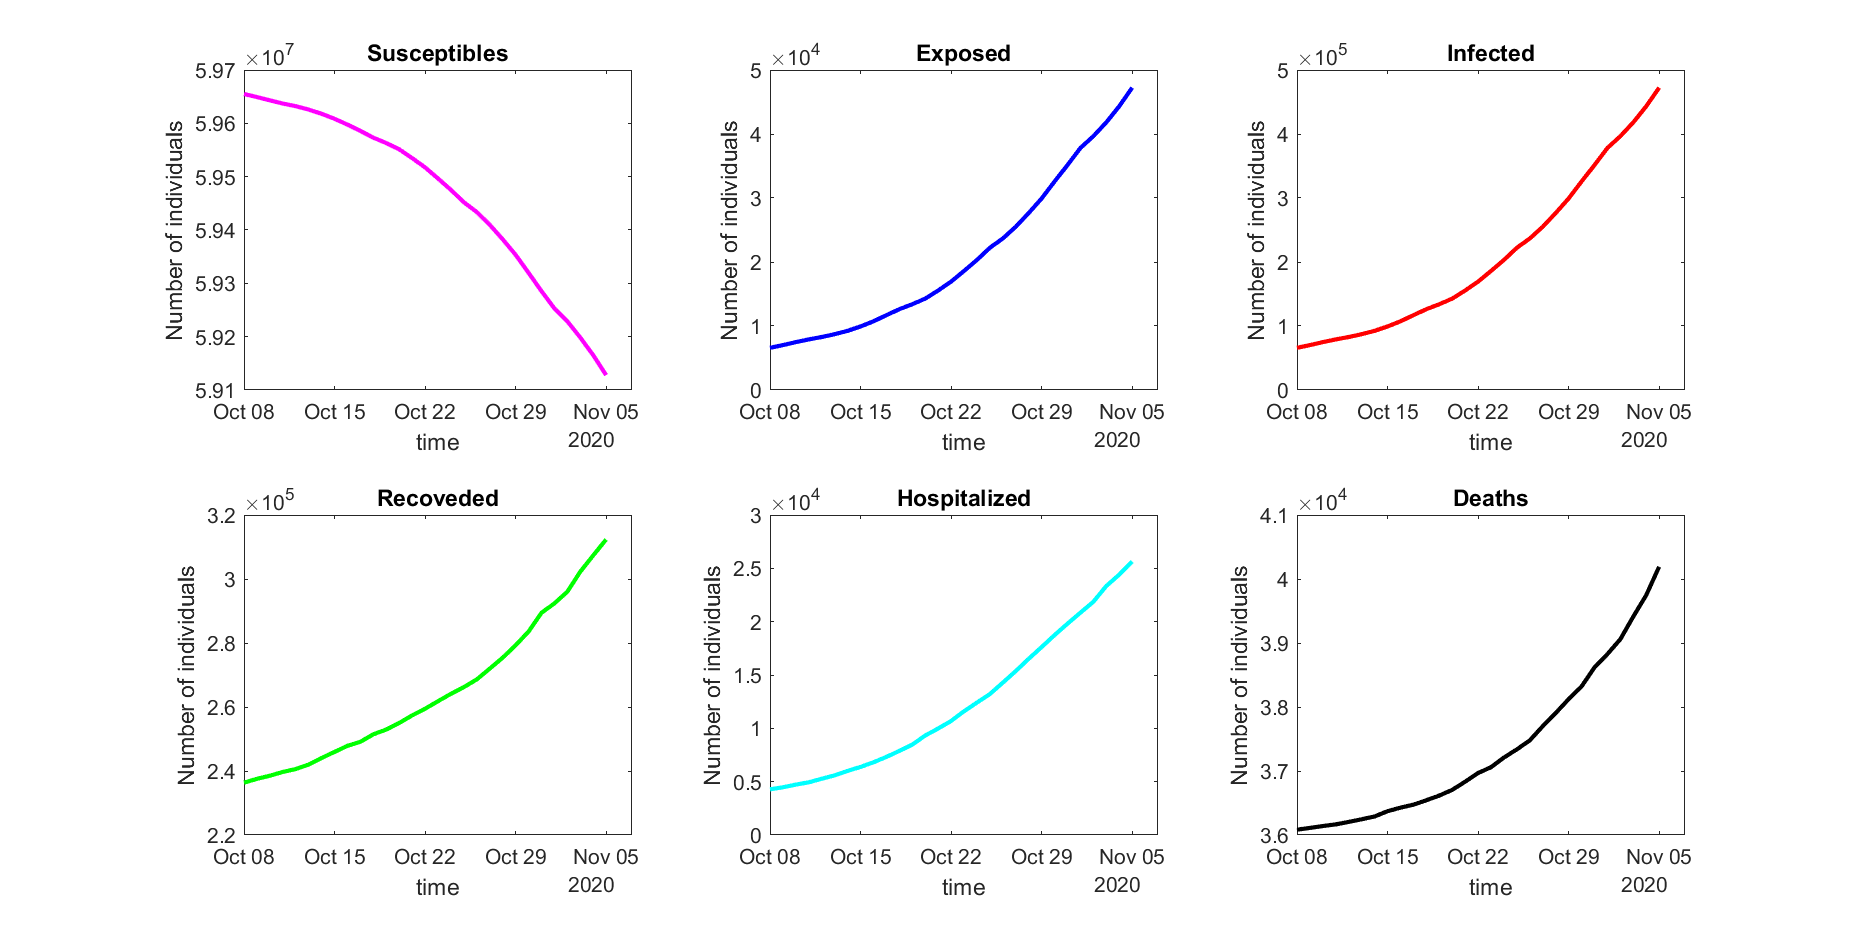
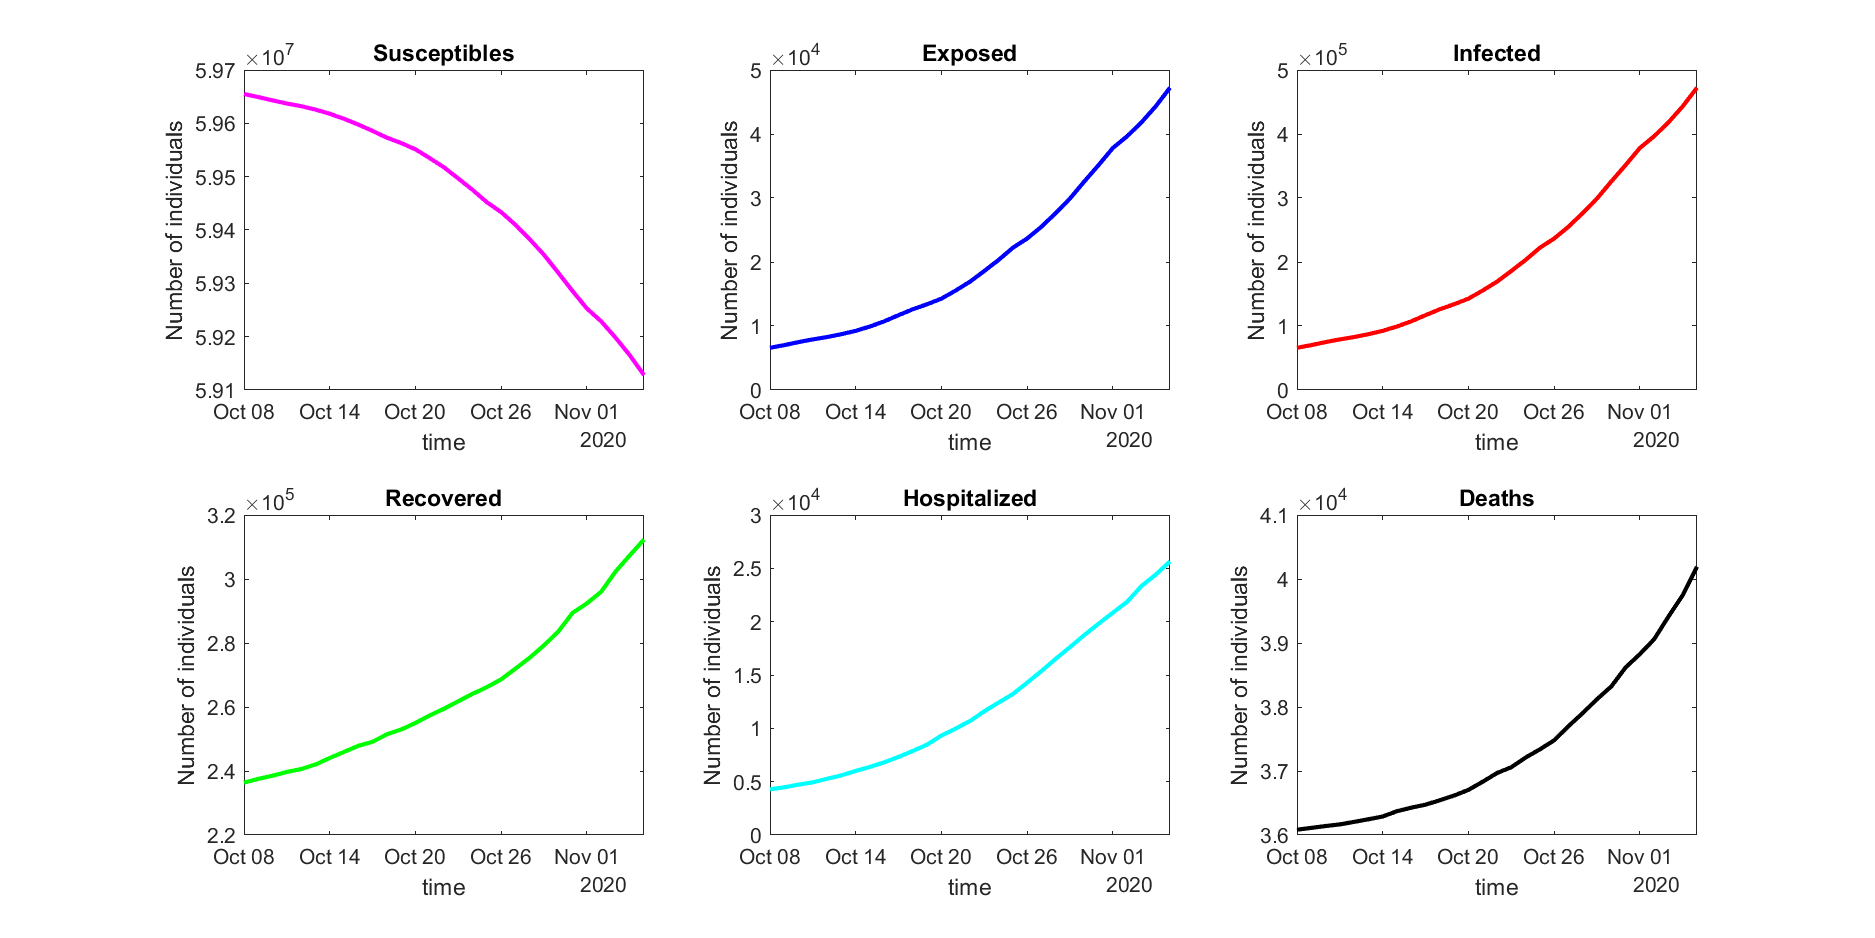
Plot update

diff --git a/models/SEIR/plot_SEIR.m b/models/SEIR/plot_SEIR.m
@@ -1,10 +1,11 @@
-function plot_SEIR(X, X0, N, p, t0, tf, tp)
+function plot_SEIR(X, X0, N, p, dates, t0, tf, tp)
 
 % Input 
 % X       data: S, I, R
 % X0      initial conditions: S0, I0, R0
 % N       number of individuals (Italian population)
 % p       estimated values of the coefficients of the model
+% dates   time vector
 % t0      time at which the fitting starts
 % tf      time at which the fitting ends  
 % tp      vector containing the times for the predictions
@@ -42,21 +43,28 @@ for i = 1:size(tp, 2)
     fprintf("RMSE test E: %f \n", RMSE_E_test);
     fprintf("RMSE test I: %f \n", RMSE_I_test);
     fprintf("RMSE test R: %f \n", RMSE_R_test);
+    
+    x0=100;
+    y0=100;
+    width=1200;
+    height=600;
+    set(gcf,'position',[x0,y0,width,height]);
 
     figure(1)
     subplot(1,3,i);
-    xline(tf,'--m');hold on;
-    plot(t0:tf+tp(i), E(t0:tf+tp(i)),'bo');hold on; 
-    plot(t,N*E_pred,'b', 'LineWidth',2);
-    plot(t0:tf+tp(i), I(t0:tf+tp(i)),'ro');hold on; 
-    plot(t,N*I_pred,'r', 'LineWidth',2);
-    plot(t0:tf+tp(i), R(t0:tf+tp(i)),'go');hold on;
-    plot(t, N*R_pred,'g', 'LineWidth',2);
-    xlabel('Days');ylabel('Number of individuals');
+    xline(dates(tf),'--m');hold on;
+    plot(dates(t0:tf+tp(i)), E(t0:tf+tp(i)),'bo');hold on; 
+    plot(dates(t),N*E_pred,'b', 'LineWidth',2);
+    plot(dates(t0:tf+tp(i)), I(t0:tf+tp(i)),'ro');hold on; 
+    plot(dates(t),N*I_pred,'r', 'LineWidth',2);
+    plot(dates(t0:tf+tp(i)), R(t0:tf+tp(i)),'go');hold on;
+    plot(dates(t), N*R_pred,'g', 'LineWidth',2);
+    xlabel('time');ylabel('Number of individuals');
     legend('Start forecast', 'E (reported)','E (fitted)',...
     'I (reported)','I (fitted)', 'R (reported)', 'R (fitted)',...
     'Location', 'northwest');
     title(sprintf('SEIR: %d days forecasts', tp(i)));
-    set(gca,'FontSize',12)
+    set(gca,'XLim',[dates(t0), dates(tf+tp(i))]);
+    saveas(gcf,'./results/SEIR_fitting.png')
 
 end

diff --git a/models/SIR/plot_SIR.m b/models/SIR/plot_SIR.m
@@ -1,10 +1,11 @@
-function plot_SIR(X, X0, N, p, t0, tf, tp)
+function plot_SIR(X, X0, N, p, dates, t0, tf, tp)
 
 % Input 
 % X       data: S, I, R
 % X0      initial conditions: S0, I0, R0
 % N       number of individuals (Italian population)
 % p       estimated values of the coefficients of the model
+% dates   time vector
 % t0      time at which the fitting starts
 % tf      time at which the fitting ends  
 % tp      vector containing the times for the predictions
@@ -37,18 +38,25 @@ for i = 1:size(tp, 2)
     fprintf("%d days forecasts errors \n", tp(i));
     fprintf("RMSE test I: %f \n", RMSE_I_test);
     fprintf("RMSE test R: %f \n", RMSE_R_test);
+    
+    x0=100;
+    y0=100;
+    width=1200;
+    height=600;
+    set(gcf,'position',[x0,y0,width,height]);
 
     figure(1)
     subplot(1,3,i);
-    xline(tf,'--m');hold on;
-    plot(t0:tf+tp(i), I(t0:tf+tp(i)),'ro');hold on; 
-    plot(t,N*I_pred,'r', 'LineWidth',2);
-    plot(t0:tf+tp(i), R(t0:tf+tp(i)),'go');hold on;
-    plot(t, N*R_pred,'g', 'LineWidth',2);
-    xlabel('Days');ylabel('Number of individuals');
+    xline(dates(tf),'--m');hold on;
+    plot(dates(t0:tf+tp(i)), I(t0:tf+tp(i)),'ro');hold on; 
+    plot(dates(t), N*I_pred,'r', 'LineWidth',2);
+    plot(dates(t0:tf+tp(i)), R(t0:tf+tp(i)),'go');hold on;
+    plot(dates(t), N*R_pred,'g', 'LineWidth',2);
+    xlabel('time');ylabel('Number of individuals');
     legend('Start forecast', 'I (reported)','I (fitted)', ...
         'R (reported)', 'R (fitted)', 'Location', 'northwest');
     title(sprintf('SIR: %d days forecasts', tp(i)));
-    set(gca,'FontSize',12)
+    set(gca,'XLim',[dates(t0), dates(tf+tp(i))]);
+    saveas(gcf,'./results/SIR_fitting.png')
 
 end

diff --git a/main.m b/main.m
@@ -29,9 +29,7 @@ plot_data(data, dates(t0:tf), N, t0, tf, "october");
 % [S, I, R]
 
 S0 = N;
-% paper SEIR
-%beta0 = 1 / S0;
-beta0 = 0.962/S0; %0.962
+beta0 = 0.962/S0; 
 gamma0 = 0.37; 
 
 % adimensional SEIR model for fitting
@@ -60,15 +58,11 @@ beta0 = beta0*N;
 p0_SIR = [beta0, gamma0];
 
 p_SIR = fit_SIR(X_ad_SIR, X0_ad_SIR, p0_SIR,t0,tf);
-
-p_SIR
-
+%p_SIR
 %R_index = p_SIR(1)/ p_SIR(2)
 %% PLOT SIR
 tp = [7,14, 21];
-plot_SIR(X_SIR, X0_ad_SIR, N, p_SIR, t0, tf, tp);
-% RMSE train I: 243733.947542 
-% RMSE train R: 265378.113719
+plot_SIR(X_SIR, X0_ad_SIR, N, p_SIR, dates, t0, tf, tp);
 %% FITTING SEIR MODEL
 % [S, E, I, R]
 
@@ -103,13 +97,11 @@ gamma0 = p_SIR(2);
 p0_SEIR = [beta0, alpha0, gamma0];
 
 p_SEIR = fit_SEIR(X_ad_SEIR, X0_ad_SEIR, p0_SEIR, t0, tf);
-
 %% PLOT SEIR
-plot_SEIR(X_SEIR, X0_ad_SEIR, N, p_SEIR, t0, tf, tp);
+plot_SEIR(X_SEIR, X0_ad_SEIR, N, p_SEIR, dates, t0, tf, tp);
 % RMSE train E: 24373.394744 
 % RMSE train I: 243733.947545 
 % RMSE train R: 265378.113719 
-
 %% FITTING SEIIR MODEL
 
 S = N-E-I-R;
@@ -140,12 +132,9 @@ lambda_e0 = 0.251883;
 p0_SEIIR = [f0, alpha0, gamma0, lambda_a0, lambda_s0, lambda_e0 ];
 
 p_SEIIR = fit_SEIIR(X_ad_SEIIR, X0_ad_SEIIR, p0_SEIIR, t0, tf);
-
-p_SEIIR
-
+%p_SEIIR
 %% PLOT SEIIR
 plot_SEIIR(X_SEIIR, X0_ad_SEIIR, N, p_SEIIR, t0, tf, tp);
-
 %% FITTING SEIIRHD MODEL
 
 S = N-E-I-R;

diff --git a/data/plot_data.m b/data/plot_data.m
@@ -12,28 +12,33 @@ R = cast((data.dimessi_guariti), 'double');
 H = cast(data.totale_ospedalizzati, 'double');
 D = cast(data.deceduti, 'double');
 S = N-E-I-R-D;
-t0
-tf
+len = tf-t0+1;
 
 figure(1)
 subplot(2,3,1)
 plot(dates, S(t0:tf),'m', 'LineWidth',2);
 xlabel('time');ylabel('Number of individuals');title('Susceptibles')
+set(gca,'XLim',[dates(1), dates(len)])
 subplot(2,3,2)
 plot(dates, E(t0:tf),'b', 'LineWidth',2);
 xlabel('time');ylabel('Number of individuals');title('Exposed')
+set(gca,'XLim',[dates(1), dates(len)])
 subplot(2,3,3)
 plot(dates, I(t0:tf),'r', 'LineWidth',2);
 xlabel('time');ylabel('Number of individuals');title('Infected')
+set(gca,'XLim',[dates(1), dates(len)])
 subplot(2,3,4)
 plot(dates, R(t0:tf),'g', 'LineWidth',2);
-xlabel('time');ylabel('Number of individuals');title('Recoveded')
+xlabel('time');ylabel('Number of individuals');title('Recovered')
+set(gca,'XLim',[dates(1), dates(len)])
 subplot(2,3,5)
 plot(dates, H(t0:tf),'c', 'LineWidth',2);
 xlabel('time');ylabel('Number of individuals');title('Hospitalized')
+set(gca,'XLim',[dates(1), dates(len)])
 subplot(2,3,6)
 plot(dates, D(t0:tf),'k', 'LineWidth',2);
 xlabel('time');ylabel('Number of individuals');title('Deaths')
+set(gca,'XLim',[dates(1), dates(len)])
 
 if plot_type=="complete"
     saveas(gcf,'./results/overview_plot.png')
